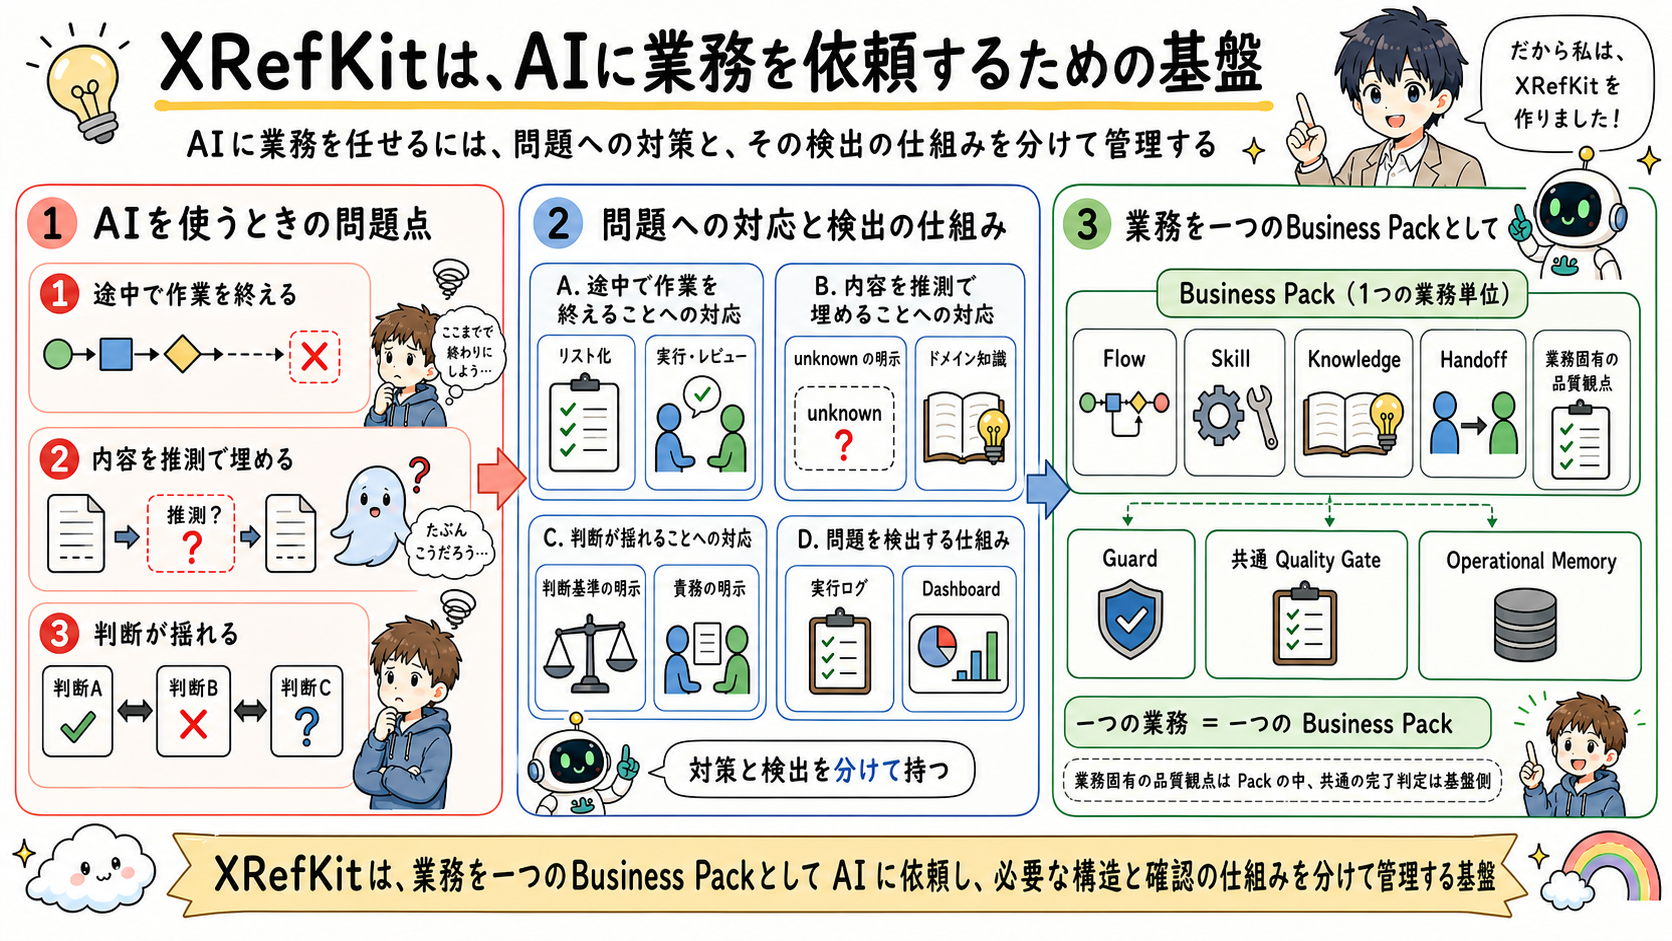
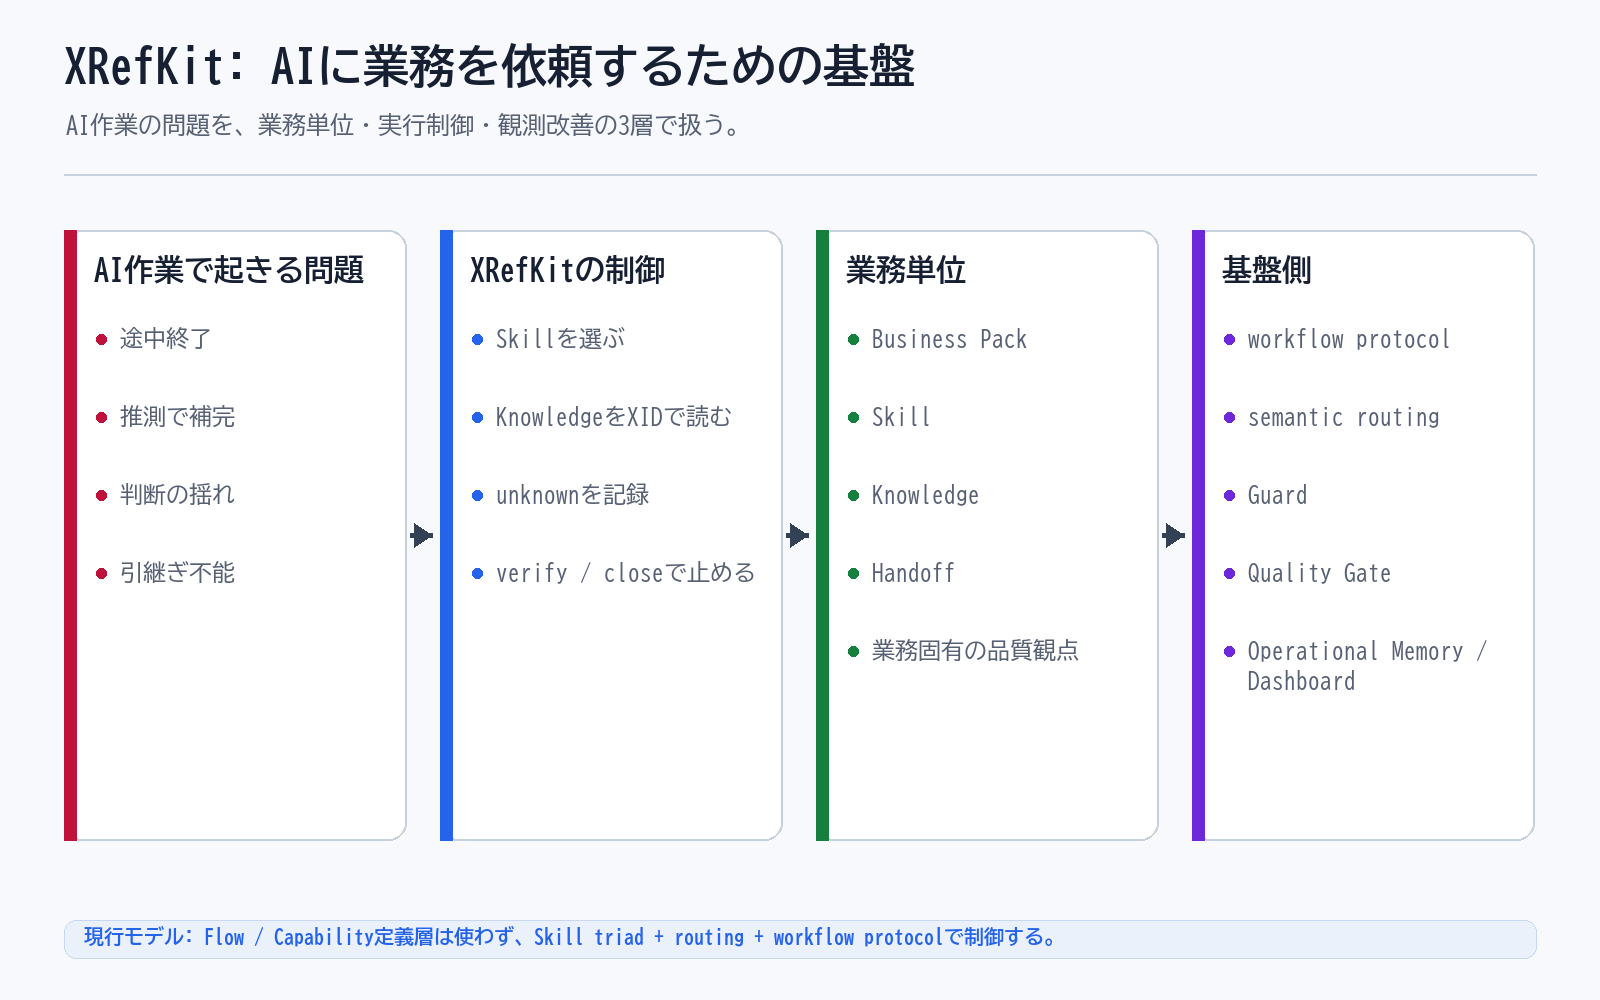
Refresh human documentation diagrams

diff --git a/human-docs/diagrams/render_diagrams.py b/human-docs/diagrams/render_diagrams.py
@@ -1,0 +1,215 @@
+from __future__ import annotations
+
+from pathlib import Path
+from textwrap import wrap
+
+from PIL import Image, ImageDraw, ImageFont
+
+
+ROOT = Path(__file__).resolve().parent
+W, H = 1600, 1000
+BG = "#f7f9fc"
+INK = "#172033"
+MUTED = "#586174"
+LINE = "#c7d0dd"
+BLUE = "#2563eb"
+GREEN = "#15803d"
+AMBER = "#b45309"
+ROSE = "#be123c"
+PURPLE = "#6d28d9"
+SLATE = "#334155"
+CARD = "#ffffff"
+
+
+FONT_REGULAR = "C:/Windows/Fonts/BIZ-UDGothicR.ttc"
+FONT_BOLD = "C:/Windows/Fonts/BIZ-UDGothicB.ttc"
+
+
+def font(size: int, bold: bool = False) -> ImageFont.FreeTypeFont:
+    return ImageFont.truetype(FONT_BOLD if bold else FONT_REGULAR, size)
+
+
+def text(draw: ImageDraw.ImageDraw, xy: tuple[int, int], value: str, size: int, fill: str = INK, bold: bool = False) -> None:
+    draw.text(xy, value, font=font(size, bold), fill=fill)
+
+
+def wrapped(draw: ImageDraw.ImageDraw, box: tuple[int, int, int, int], value: str, size: int, fill: str = INK, bold: bool = False, width: int = 26, line_gap: int = 8) -> None:
+    x, y, x2, _ = box
+    max_chars = max(8, int((x2 - x) / (size * 0.55)))
+    max_chars = min(width, max_chars)
+    for line in wrap(value, max_chars):
+        draw.text((x, y), line, font=font(size, bold), fill=fill)
+        y += size + line_gap
+
+
+def card(draw: ImageDraw.ImageDraw, box: tuple[int, int, int, int], title: str, body: list[str], color: str = BLUE) -> None:
+    x1, y1, x2, y2 = box
+    draw.rounded_rectangle(box, radius=18, fill=CARD, outline=LINE, width=2)
+    draw.rectangle((x1, y1, x1 + 12, y2), fill=color)
+    wrapped(draw, (x1 + 30, y1 + 24, x2 - 24, y2), title, 30, INK, True, width=18)
+    y = y1 + 96
+    for item in body:
+        draw.ellipse((x1 + 32, y + 8, x1 + 42, y + 18), fill=color)
+        wrapped(draw, (x1 + 56, y, x2 - 24, y2), item, 23, MUTED, False, width=25, line_gap=7)
+        y += 78
+
+
+def arrow(draw: ImageDraw.ImageDraw, start: tuple[int, int], end: tuple[int, int], color: str = SLATE, width: int = 5) -> None:
+    draw.line((start, end), fill=color, width=width)
+    ex, ey = end
+    sx, sy = start
+    if ex >= sx:
+        pts = [(ex, ey), (ex - 18, ey - 12), (ex - 18, ey + 12)]
+    else:
+        pts = [(ex, ey), (ex + 18, ey - 12), (ex + 18, ey + 12)]
+    draw.polygon(pts, fill=color)
+
+
+def header(draw: ImageDraw.ImageDraw, title: str, subtitle: str) -> None:
+    text(draw, (64, 42), title, 46, INK, True)
+    wrapped(draw, (66, 112, 1500, 170), subtitle, 24, MUTED, False, width=80)
+    draw.line((64, 174, 1536, 174), fill=LINE, width=2)
+
+
+def footer(draw: ImageDraw.ImageDraw, note: str) -> None:
+    draw.rounded_rectangle((64, 920, 1536, 958), radius=12, fill="#eaf1fb", outline="#c7d8f4")
+    text(draw, (84, 926), note, 20, BLUE, True)
+
+
+def save(name: str, title: str, subtitle: str, cards: list[tuple[str, list[str], str]], note: str, arrows: bool = True) -> None:
+    img = Image.new("RGB", (W, H), BG)
+    draw = ImageDraw.Draw(img)
+    header(draw, title, subtitle)
+    count = len(cards)
+    gap = 34
+    left = 64
+    top = 230
+    card_w = int((W - 128 - gap * (count - 1)) / count)
+    card_h = 610
+    boxes = []
+    for i, (ctitle, body, color) in enumerate(cards):
+        x1 = left + i * (card_w + gap)
+        x2 = x1 + card_w
+        box = (x1, top, x2, top + card_h)
+        boxes.append(box)
+        card(draw, box, ctitle, body, color)
+    if arrows:
+        for a, b in zip(boxes, boxes[1:]):
+            arrow(draw, (a[2] + 4, top + card_h // 2), (b[0] - 8, top + card_h // 2))
+    footer(draw, note)
+    img.save(ROOT / name)
+
+
+def render() -> None:
+    save(
+        "01_xrefkit_as_ai_agent_os.png",
+        "XRefKit: AIに業務を依頼するための基盤",
+        "AI作業の問題を、業務単位・実行制御・観測改善の3層で扱う。",
+        [
+            ("AI作業で起きる問題", ["途中終了", "推測で補完", "判断の揺れ", "引継ぎ不能"], ROSE),
+            ("XRefKitの制御", ["Skillを選ぶ", "KnowledgeをXIDで読む", "unknownを記録", "verify / closeで止める"], BLUE),
+            ("業務単位", ["Business Pack", "Skill", "Knowledge", "Handoff", "業務固有の品質観点"], GREEN),
+            ("基盤側", ["workflow protocol", "semantic routing", "Guard", "Quality Gate", "Operational Memory / Dashboard"], PURPLE),
+        ],
+        "現行モデル: Flow / Capability定義層は使わず、Skill triad + routing + workflow protocolで制御する。",
+    )
+    save(
+        "02_business_pack_explained.png",
+        "Business Pack Explained",
+        "ひとつの業務を、AIへまとめて渡せる再利用単位として束ねる。",
+        [
+            ("人間の依頼", ["業務を一件として渡す", "Skill単位の細かい指示を減らす", "人間判断点だけ残す"], AMBER),
+            ("Packが持つもの", ["job-specific Skills", "判断Knowledge", "handoff points", "業務固有の品質観点"], GREEN),
+            ("OS coreが持つもの", ["runtime control", "guard", "routing", "closure", "audit"], BLUE),
+            ("実行結果", ["成果物", "judgment / evidence", "unknown / risk", "next handoff"], PURPLE),
+        ],
+        "PackはSkill集だけではない。作業・判断根拠・受け渡し境界を束ねる。",
+    )
+    save(
+        "03_flow_skill_knowledge_handoff.png",
+        "Skill / Knowledge / Handoff と進行制御",
+        "実行手順、判断根拠、受け渡し、進行制御を分ける。",
+        [
+            ("Intent + State", ["目的と現在状態", "semantic routingでSkill候補を選ぶ", "preconditionsを確認"], AMBER),
+            ("Skill", ["procedure", "capability / tuning / responsibility", "knowledge_slots", "I/O contract"], BLUE),
+            ("Knowledge", ["XIDで取得", "base + local catalog", "必要な断片だけロード", "事実とルールを保持"], GREEN),
+            ("Handoff / State", ["成果物", "judgment", "unknown / risk", "次のSkillまたは人間へ渡す"], PURPLE),
+        ],
+        "決定論はworkflow protocolのverify / closeに置く。Skill内部判断とroutingはgateされる。",
+    )
+    save(
+        "04_code_review_as_split_checks.png",
+        "Code Review as Split Checks",
+        "レビューを責務別Skillに分け、同じ基準で安定して検出する。",
+        [
+            ("変更入力", ["要求", "設計", "差分", "XDDP trace"], AMBER),
+            ("分割レビュー", ["traceability", "language-specific issues", "system-wide issues", "DB artifacts"], BLUE),
+            ("結果統合", ["finding", "risk", "unknown", "evidence", "tradeoff"], GREEN),
+            ("人間判断", ["優先順位", "許容tradeoff", "修正方針", "再レビュー指示"], PURPLE),
+        ],
+        "広いレビューは必要に応じてSubAgentへ分割し、最終判断は人間へ戻す。",
+    )
+    save(
+        "05_execution_outputs_and_followup_work.png",
+        "Business Packを実行すると何が出力されるか",
+        "回答だけでなく、次作業と観測に使える記録を出す。",
+        [
+            ("Business Pack実行", ["Skill runtime envelope", "Knowledge解決", "verify", "close"], BLUE),
+            ("出力", ["成果物", "execution log", "unknown", "judgment", "evidence", "handoff"], GREEN),
+            ("後続作業", ["確認", "差し戻し", "追加調査", "次Skill", "人間判断"], AMBER),
+            ("改善入力", ["Operational Memory", "Dashboard", "Skill / Knowledge / Gate改善"], PURPLE),
+        ],
+        "実行結果は最終回答では終わらず、次状態と改善材料になる。",
+    )
+    save(
+        "06_os_and_flow_monitor_dashboard.png",
+        "DashboardでAIの実行記録を確認する",
+        "Dashboardは実行層ではなく、実行記録を人間が観測するmonitor-side layer。",
+        [
+            ("実行記録", ["artifact", "log", "unknown", "judgment", "evidence", "handoff"], BLUE),
+            ("Operational Memory", ["何を実行したか", "どの根拠を使ったか", "どこで止まったか"], GREEN),
+            ("Dashboard", ["Skill run", "quality gate", "unresolved", "handoff status"], PURPLE),
+            ("人間の確認", ["異常検出", "改善判断", "次アクション", "承認 / 差し戻し"], AMBER),
+        ],
+        "Dashboardは正本知識ではない。観測と改善判断の入口である。",
+    )
+    save(
+        "07_dashboard_observation_and_improvement.png",
+        "Dashboardから改善につなげる",
+        "観測した実行記録を、管理対象ごとの改善に戻す。",
+        [
+            ("見るもの", ["どのSkillが動いたか", "どこで止まったか", "unresolved", "quality gate"], BLUE),
+            ("判断すること", ["手順不足", "知識不足", "guard不足", "gate不足"], AMBER),
+            ("直す対象", ["Skill", "Knowledge", "Guard", "Quality Gate"], GREEN),
+            ("再実行", ["同じ目的で再確認", "改善効果を見る", "記録を残す"], PURPLE),
+        ],
+        "監査で終わらせず、Operational Memoryから改善ループへ接続する。",
+    )
+    save(
+        "08_human_direction_ai_modification_loop.png",
+        "人間が方向を決め、AIが修正する",
+        "人間は方針と判断点を持ち、AIは具体変更と検証を実行する。",
+        [
+            ("人間が決める", ["方向性", "優先順位", "許容tradeoff", "承認 / 差し戻し"], AMBER),
+            ("AIが変更する", ["Skill修正", "Knowledge追加", "Guard調整", "Quality Gate調整"], BLUE),
+            ("検証する", ["fm xref fix", "Skill verify", "テスト", "Dashboard確認"], GREEN),
+            ("次の判断へ", ["結果を見る", "未解決を残す", "必要なら再指示"], PURPLE),
+        ],
+        "AIが方針を独断で決めるのではなく、人間の判断を実装作業へ落とす。",
+    )
+    save(
+        "09_business_pack_reuse.png",
+        "Business Packはどう再利用するか",
+        "再利用単位を、Skill単体・Knowledge断片・Business Packで分けて考える。",
+        [
+            ("Skill単体", ["方法を再利用", "triadで責務を固定", "domain corpusは持たない"], BLUE),
+            ("Knowledge断片", ["XIDで取得", "ルール / 事実 / 観点", "base + local catalog"], GREEN),
+            ("Business Pack", ["業務責務を再利用", "Skill + Knowledge + Handoff", "品質観点を束ねる"], PURPLE),
+            ("再利用条件", ["責務が同じ", "handoff境界が保てる", "OS coreを再定義しない"], AMBER),
+        ],
+        "技術名ではなく、変更影響調査・計画化・QA判定のような業務責務で再利用する。",
+    )
+
+
+if __name__ == "__main__":
+    render()

diff --git a/human-docs/diagrams/05_execution_outputs_and_followup_work.md b/human-docs/diagrams/05_execution_outputs_and_followup_work.md
@@ -1,7 +1,6 @@
 # Business Packを実行すると、何が出力されるのか
 
 ![Business Packを実行すると、何が出力されるのか](05_execution_outputs_and_followup_work.png)
-> 注記: 下の図画像は skill-centric 統合前の旧モデル（Flow / Capability）を描いています。本文は新モデルに更新済みで、画像は再描画待ちです。
 
 ## 一文要約
 

diff --git a/human-docs/diagrams/08_human_direction_ai_modification_loop.md b/human-docs/diagrams/08_human_direction_ai_modification_loop.md
@@ -1,7 +1,6 @@
 # 人間が方向を決め、AIが修正する
 
 ![人間が方向を決め、AIが修正する](08_human_direction_ai_modification_loop.png)
-> 注記: 下の図画像は skill-centric 統合前の旧モデル（Flow / Capability）を描いています。本文は新モデルに更新済みで、画像は再描画待ちです。
 
 ## 一文要約
 

diff --git a/human-docs/diagrams/06_os_and_flow_monitor_dashboard.md b/human-docs/diagrams/06_os_and_flow_monitor_dashboard.md
@@ -1,7 +1,6 @@
 # DashboardでAIの実行記録を確認する
 
 ![DashboardでAIの実行記録を確認する](06_os_and_flow_monitor_dashboard.png)
-> 注記: 下の図画像は skill-centric 統合前の旧モデル（Flow / Capability）を描いています。本文は新モデルに更新済みで、画像は再描画待ちです。
 
 ## 一文要約
 

diff --git a/human-docs/diagrams/07_dashboard_observation_and_improvement.md b/human-docs/diagrams/07_dashboard_observation_and_improvement.md
@@ -1,7 +1,6 @@
 # Dashboardから改善につなげる
 
 ![Dashboardから改善につなげる](07_dashboard_observation_and_improvement.png)
-> 注記: 下の図画像は skill-centric 統合前の旧モデル（Flow / Capability）を描いています。本文は新モデルに更新済みで、画像は再描画待ちです。
 
 ## 一文要約
 

diff --git a/human-docs/diagrams/03_flow_skill_knowledge_handoff.md b/human-docs/diagrams/03_flow_skill_knowledge_handoff.md
@@ -1,7 +1,6 @@
 # Skill / Knowledge / Handoff と進行制御
 
 ![Flow Skill Knowledge Handoff](03_flow_skill_knowledge_handoff.png)
-> 注記: 下の図画像は skill-centric 統合前の旧モデル（Flow / Capability）を描いています。本文は新モデルに更新済みで、画像は再描画待ちです。
 
 ## 一文要約
 

diff --git a/human-docs/diagrams/09_business_pack_reuse.md b/human-docs/diagrams/09_business_pack_reuse.md
@@ -1,7 +1,6 @@
 # Business Packはどう再利用するか
 
 ![Business Packはどう再利用するか](09_business_pack_reuse.png)
-> 注記: 下の図画像は skill-centric 統合前の旧モデル（Flow / Capability）を描いています。本文は新モデルに更新済みで、画像は再描画待ちです。
 
 ## 一文要約
 

diff --git a/human-docs/diagrams/04_code_review_as_split_checks.md b/human-docs/diagrams/04_code_review_as_split_checks.md
@@ -1,7 +1,6 @@
 # Code Review as Split Checks
 
 ![Code Review as Split Checks](04_code_review_as_split_checks.png)
-> 注記: 下の図画像は skill-centric 統合前の旧モデル（Flow / Capability）を描いています。本文は新モデルに更新済みで、画像は再描画待ちです。
 
 ## 一文要約
 

diff --git a/human-docs/diagrams/02_business_pack_explained.md b/human-docs/diagrams/02_business_pack_explained.md
@@ -1,7 +1,6 @@
 # Business Pack Explained
 
 ![Business Pack Explained](02_business_pack_explained.png)
-> 注記: 下の図画像は skill-centric 統合前の旧モデル（Flow / Capability）を描いています。本文は新モデルに更新済みで、画像は再描画待ちです。
 
 ## 一文要約
 
